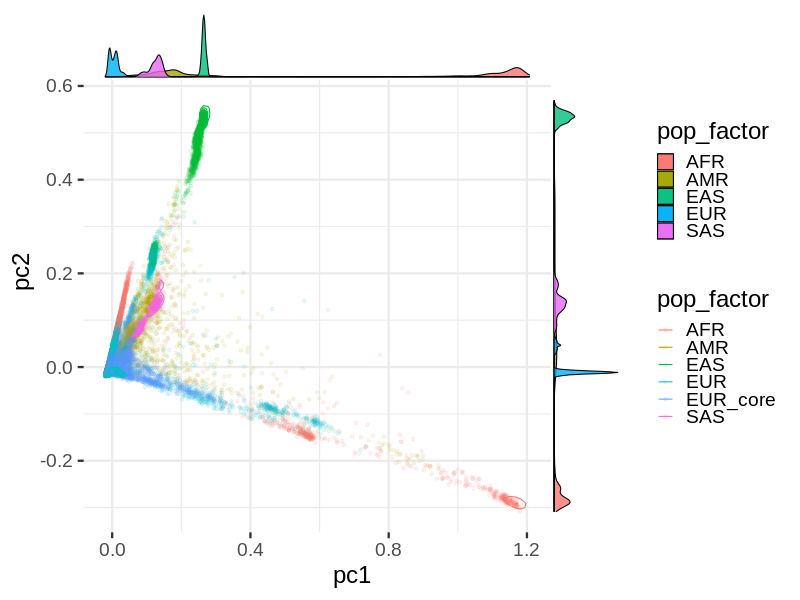
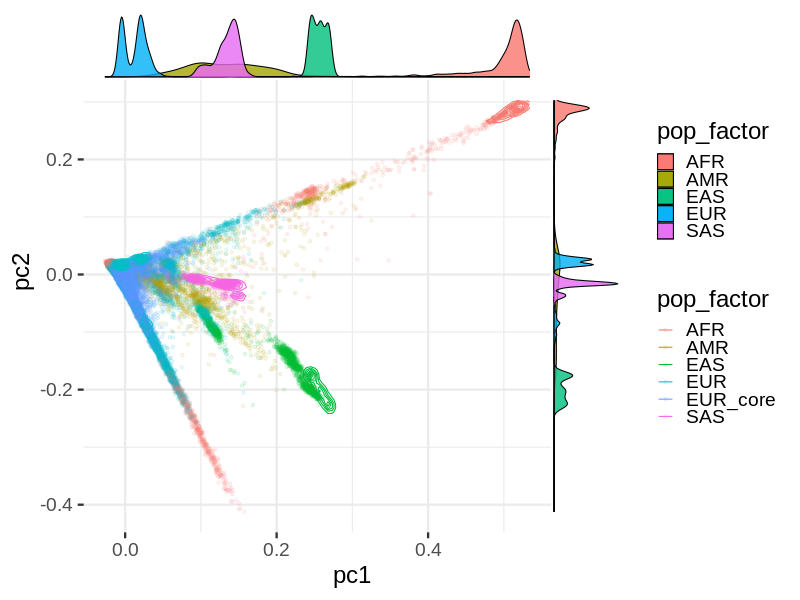
rerun

diff --git a/qc-pipeline/docs/2024.07.01/mod8_psam_reconstruction.md b/qc-pipeline/docs/2024.07.01/mod8_psam_reconstruction.md
@@ -5,9 +5,9 @@
 | Relationship |   |
 | ------------ | - |
 | Duplicates or monozygotic twins| 3725 |
-| Parent-offspring| 138876 |
-| Full siblings| 26014 |
-| 2nd degree| 119 |
+| Parent-offspring| 138835 |
+| Full siblings| 26009 |
+| 2nd degree| 143 |
 | 3rd degree| 0 |
 | 4th degree| 0 |
 | Unrelated| 0 |
@@ -39,18 +39,18 @@
 ![](mod8_psam_reconstruction/children_sex_plot.png)
 ## Parental relationship
 83839 mother-child relationships expected.
-- 83504 (99.6%) recovered by genetic relationships.
-- 335 (0.4%) not recovered by genetic relationships.
+- 83476 (99.57%) recovered by genetic relationships.
+- 363 (0.43%) not recovered by genetic relationships.
 
 
 59358 father-child relationships expected.
-- 59050 (99.48%) recovered by genetic relationships.
-- 308 (0.52%) not recovered by genetic relationships.
+- 59035 (99.46%) recovered by genetic relationships.
+- 323 (0.54%) not recovered by genetic relationships.
 
 
-145764 parent-offspring relationships detected
-- 142554 (97.8%) match to registry.
-- 3210 (2.2%) do not match to registry.
+145719 parent-offspring relationships detected
+- 142511 (97.8%) match to registry.
+- 3208 (2.2%) do not match to registry.
 
 
 ## Exclusion

diff --git a/qc-pipeline/docs/2024.07.01/pca_1kg_moba.md b/qc-pipeline/docs/2024.07.01/pca_1kg_moba.md
@@ -42,7 +42,7 @@ Clustering of the 1KG after an 80-20 split using svm in the top 10 PCs.
 | Population | AFR | AMR | EAS | EUR | SAS |
 | - | -  |  -  |  -  |  -  |  -  |
 | AFR | 526 | 3 | 0 | 0 | 0 |
-| AMR | 1 | 268 | 0 | 9 | 0 |
+| AMR | 2 | 268 | 0 | 8 | 0 |
 | EAS | 0 | 0 | 403 | 0 | 0 |
 | EUR | 0 | 0 | 0 | 402 | 0 |
 | SAS | 0 | 0 | 0 | 0 | 391 |
@@ -53,7 +53,7 @@ Clustering of the 1KG after an 80-20 split using svm in the top 10 PCs.
 Clustering of MoBa participants with svm using the top 10 PCs and 1KG as training.
 | Population | AFR | AMR | EAS | EUR | EUR_core | SAS |
 | - | -  |  -  |  -  |  -  |  -  |  -  |
-| MoBa | 1674 | 4277 | 1627 | 52061 | 168658 | 1321 |
+| MoBa | 4834 | 1510 | 1834 | 41840 | 178640 | 960 |
 
 
 ![](plot/moba_pop_plot.png)
